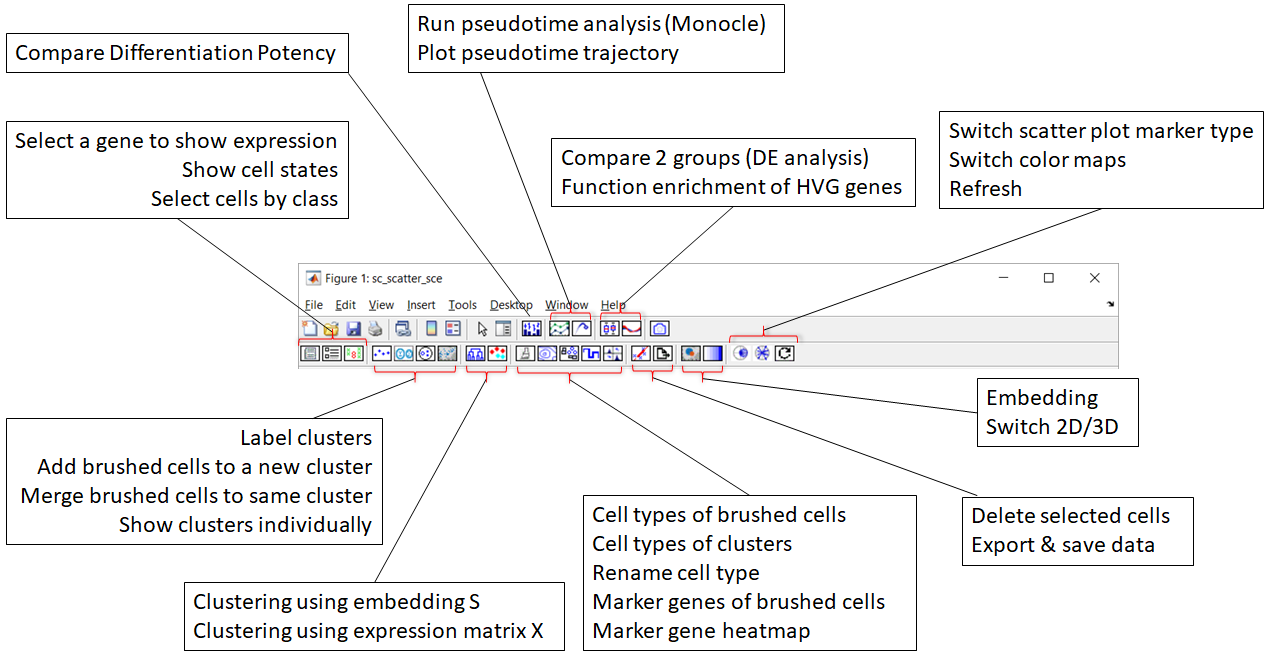
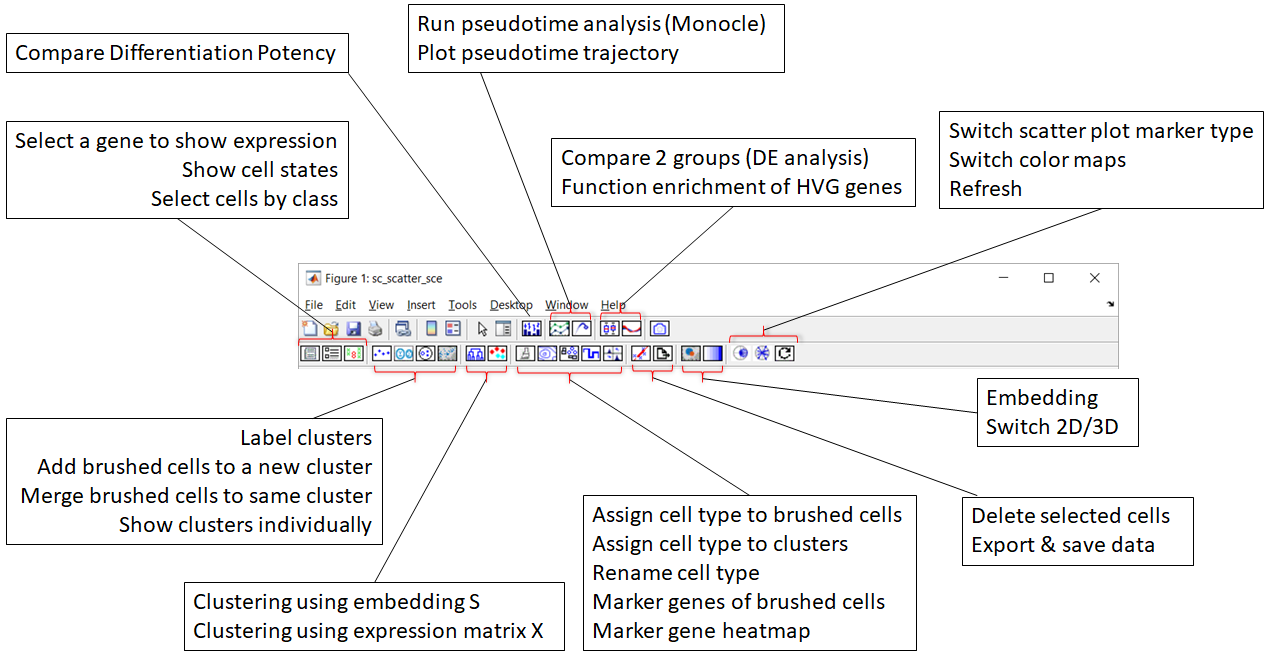
.

Changed region(s): [[0.461, 0.7587, 0.7069, 0.8498]]

diff --git a/+pkg/weightedZISpearman.m b/+pkg/weightedZISpearman.m
@@ -21,40 +21,34 @@
 %' weightedZISpearman(x,y,w)
 %'
 %' @export
+%{
+cd E:\RStudio
+x=readmatrix('xx.csv'); x=x(:,2);
+y=readmatrix('yy.csv'); y=y(:,2);
+w=readmatrix('ww.csv'); w=w(:,2);
+r=-0.07823878;
+%}
 
-weightedZISpearman <- function(x, y, w = 1) {
+function [rho_star]=weightedZISpearman(x,y,w)
+if nargin<3, w=1.0; end
+if any(x<0|y<0), error('x and/or y values have negative values'); end
+if (length(x)~=length(y)), error('x and y should have the same length'); end
+if (length(w)==1), w=w*ones(size(x)); end
 
-  % needs the original values, not the ranks
-
-  if (any(x < 0 | y < 0)) {
-    stop("x and/or y values have negative values")
-  }
-  if (length(x) != length(y)) {
-    stop("x and y should have the same length")
-  }
-  if (length(w) == 1) {
-    w <- rep(w, length(x))
-  }
-
-  posx = x > 0
-  posy = y > 0
-  pospos = posx & posy
-
-  p_11 = sum(w * pospos)/sum(w)
-  p_00 = sum(w * (!posx & !posy))/sum(w)
-  p_01 = sum(w * (!posx & posy))/sum(w)
-  p_10 = sum(w * (posx & !posy))/sum(w)
-  rho_11 = weightedSpearman(x = x[pospos], y = y[pospos], w = w[pospos])
-  rho_star = p_11 * (p_01 + p_11) * (p_10 + p_11) * rho_11 +
-    3*(p_00 * p_11 - p_10 * p_01)
-
-  if (is.na(rho_star)) {
-    print("Zero inflated Spearman correlation is undefined,
-          returning Spearman correlation")
-    rho = weightedSpearman(x = x, y = y, w = w)
-    return(rho)
-  }
-
-  return(rho_star)
-}
+    i=x>0;
+    j=y>0;
+    k=i&j;
+    
+    p_11=sum(w.*k)/sum(w);
+    p_00=sum(w.*(~i&~j))/sum(w);
+    p_01= sum(w.*(~i&j))/sum(w);
+    p_10= sum(w.*(i&~j))/sum(w);
+    rho_11= pkg.weightedSpearman(x(k),y(k),w(k));
+    rho_star= p_11*(p_01+p_11)*(p_10+p_11)*rho_11+...
+              3*(p_00*p_11-p_10*p_01);
+    if isnan(rho_star)
+        % warning("Zero inflated Spearman correlation is undefined, returning Spearman correlation");
+        rho_star=pkg.weightedSpearman(x,y,w);
+    end
+end
 

diff --git a/sc_scatter_sce.m b/sc_scatter_sce.m
@@ -495,22 +495,27 @@ function EmbeddingAgain(~,~)
 end
 
 function DetermineCellTypeClusters(~,~)
-    answer = questdlg('Label cell type of clusters?');
-    if ~strcmp(answer,'Yes'), return; end    
+    answer = questdlg('Assign cell type identity to clusters?');
+    if ~strcmp(answer,'Yes'), return; end
+    
     answer = questdlg('Which species?','Select Species','Mouse','Human','Mouse');
 
-    if ~strcmp(answer,'Human')
+    if strcmp(answer,'Human')
         speciestag="human";
-    else
+    elseif strcmp(answer,'Mouse')
         speciestag="mouse";
+    else
+        return;
     end
     organtag="all";
     
     answer = questdlg('Which marker database?','Select Database','PanglaoDB','clustermole','PanglaoDB');
     if strcmpi(answer,'clustermole')
         databasetag="clustermole";
-    else
+    elseif strcmpi(answer,'panglaodb')
         databasetag="panglaodb";
+    else
+        return;
     end    
     
 for i=1:max(c) 

diff --git a/+pkg/weightedPearson.m b/+pkg/weightedPearson.m
@@ -1,0 +1,29 @@
+%' the weightedPearson function
+%'
+%' @title weightedPearson
+%' @param x x and y are data vectors
+%' @param y x and y are data vectors
+%' @param w weight vector, values should be between 0 and 1
+%' @return \code{numeric} weighted correlation value between x and y
+
+%' @examples
+%'
+%' x = rnorm(100)
+%' y = rnorm(100)
+%' w = runif(100)
+%' weightedPearson(x,y,w)
+%'
+%' @export
+
+function [r]=weightedPearson(x, y, w)
+if nargin<3, w=1.0; end
+if any(x < 0 | y < 0), error('x and/or y values have negative values'); end
+if (length(x) ~= length(y)), error('x and y should have the same length'); end
+if (length(w) == 1), w=w*ones(size(x)); end
+
+  nw = sum(w);
+  wssx = nw * sum(w .* (x.^2)) - sum(w .* x)^2;
+  wssy = nw * sum(w .* (y.^2)) - sum(w .* y)^2;
+  wssxy = nw * sum(w .* x .* y) - sum(w .* x) * sum(w .* y);
+  r = wssxy/sqrt(wssx .* wssy);
+end

diff --git a/+pkg/weightedSpearman.m b/+pkg/weightedSpearman.m
@@ -1,0 +1,32 @@
+
+% https://github.com/shazanfar/DCARS
+
+%' the weightedSpearman function
+%'
+%' @title weightedSpearman
+%' @param x x and y are data vectors
+%' @param y x and y are data vectors
+%' @param w weight vector, values should be between 0 and 1
+%' @return \code{numeric} weighted correlation value between x and y
+
+%' @examples
+%'
+%' x = rnorm(100)
+%' y = rnorm(100)
+%' w = runif(100)
+%' weightedSpearman(x,y,w)
+%'
+%' @export
+
+function [r]=weightedSpearman(x,y,w)
+if nargin<3, w=1.0; end
+if any(x < 0 | y < 0), error('x and/or y values have negative values'); end
+if (length(x) ~= length(y)), error('x and y should have the same length'); end
+if (length(w) == 1), w=w*ones(size(x)); end
+
+  i = w > 0;
+% [~, ~, rank] = unique(Data);
+  xr = tiedrank(x(i));
+  yr = tiedrank(y(i));
+  r=pkg.weightedPearson(xr, yr, w(i));
+end
